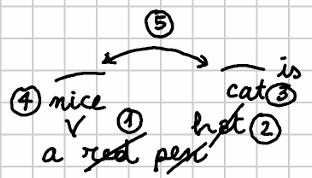
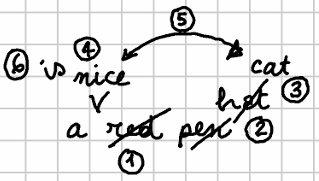
Images

diff --git a/export/export-tei.md b/export/export-tei.md
@@ -110,9 +110,11 @@ After this stage the pipeline has completed, and the result is any text-based ou
 
 ## Example 1
 
-Let us see a sample illustrating this process using a simple pipeline with a short mock autograph text, represented by Figure 1:
+Let us see a sample illustrating this process using a simple pipeline with a short mock autograph text, represented in Figure 1:
 
 ![a mock autograph](img/mock-autograph-pen.png)
+
+- _Figure 1 - A mock autograph_
 
 The base text (version `v0`), written on the regular lines of the notebook, is just three words:
 
@@ -141,7 +143,13 @@ These operations generate the following text versions:
 
 >As usual, note that these are just the outputs of each operation. Every operation alters the text along the path leading from one staged version to the next one; so many of the outputs are just intermediate steps along this path. This is clearly the case especially when the output does not make sense, like in `v5`. For instance, on the basis of external information here one might consider as staged versions just `v4` and `v6`. This is of course a matter of interpretation, within the constraints defined by the snapshot.
 
-So, this is the essential data of our snapshot: a base text, and the operations affecting it. We now want to export this into a specific form of TEI, namely the scheme adopted by the Saba 1919 digital edition (which can be displayed in EVT 3).
+Tagging the image with numbers should make our interpretation more evident (Figure 2):
+
+![tagged mock autograph](img/mock-autograph-pen-n.png)
+
+- _Figure 2 - Tagged mock autograph_
+
+So, this is the essential data of our snapshot: a base text, and the operations affecting it. We now want to export this into a specific form of TEI, namely the scheme adopted by the Saba 1919 digital edition (which can be displayed in [EVT](http://evt.labcd.unipi.it) 3).
 
 There, for a given multiple-versions text (an epigram, a page, etc.):
 
@@ -285,125 +293,12 @@ The following diagram summarizes the above dump (I applied the red color to the 
 
 >On passage, note that this defines a segment including only a space (between "cat" and "is"). This is the consequence of the design of the filter's behavior, because that space refers to a different operation and thus has different metadata. Yet, the power of the pipeline approach is right in concatenating small pieces of reusable logic. Should we want to merge this space into the previous segment, we could just concatenate another filter which deals with whitespace-only segments and merges them following some specific logic.
 
+### Example 1 - Stage 3
+
+Once we have our "multi" tree representing our staged versions, we can finally proceed to materialize this abstract structure into TEI markup.
+
+As the tree contains multiple branches, one per sub-tree, we are going to use a composite "Saba" tree renderer. This will wrap a "Saba" tree renderer which, like most filters, just deals with a linear tree.
+
+The root node of the tree structure will correspond to a single `app`.
+
 TODO
-
-## Procedure
-
-As an example, let us consider this mock autograph:
-
-![mock autograph](img/mock-autograph.png)
-
-The base text, written on the regular lines of the notebook, is:
-
-```txt
-         10        20        30        40        50
-123456789-123456789-123456789-123456789-123456789-123456789-1
-he had a red hat for sure,|and long moustache and grey beard.
-```
-
-Say that our interpretation defines the following operations starting from the base text, which is the one first written down on the regular notebook lines:
-
-1. insert "very " before "long": `32+["very " [*log="insert 'very ' before 'long'"]` (`v1`);
-2. replace "red" with "green": `10x3="green" [*log="replace 'red' with 'green'"]` (`v2`);
-3. delete "grey": `51x5- [*log="delete grey" *version^="A"]` (`v3`, staged as `A`);
-4. move "for sure," before "he": `18x9>[1@fs [*log="move 'for sure,' before 'he'"]` (`v4`);
-5. delete tail space: `17-@fs [*log="delete tail ' '"]` (`v5`);
-6. insert space before "he": `1+[" "@fs [*log="insert space before 'he'"]` (`v6`);
-7. swap moustache/beard: `37x9<>56x5 [*log="swap 'moustache' / 'beard'" *version^="B"]` (`v7`, staged as `B`).
-
-From base text we get this tree:
-
-1. root node;
-2. nodes for `he had a red hat for sure,|and long moustache and grey beard.`.
-
-We then run the operations:
-
-1. insert "very" before "long": `he had a red hat for sure,|and [very ]long moustache and grey beard.`.
-2. replace "red" with "green": `he had a [×red][green] hat for sure,|and [very ]long moustache and grey beard.`
-3. delete "grey": `he had a [×red][green] hat for sure,|and [very ]long moustache and [×grey] beard.`
-4. move "for sure," before "he": `[for sure,]he had a [×red][green] hat [×for sure,]|and [very ]long moustache and [×grey] beard.`
-5. delete tail space: `[for sure,]he had a [×red][green] hat[× ][×for sure,]|and [very ]long moustache and [×grey] beard.`
-6. insert space before "he": `[for sure,][ ]he had a [×red][green] hat[× ][×for sure,]|and [very ]long moustache and [×grey] beard.`
-7. swap moustache/beard: `[for sure,][ ]he had a [×red][green] hat[× ][×for sure,]|and [very ]long [×moustache][beard] and [×grey] [×beard][moustache].`
-
-To keep the example short, say that we are interested in exporting the final version only; anyway, whatever the number of versions the procedure is the same.
-
-The next step is segmenting the text, i.e. merging nodes to create the maximum-length spans of texts sharing the same set of annotations.
-
-## 2. Segmentation
-
-For segmentation we must define which injected features are relevant. This is up to the user, and depends on the markup we want to generate. Trace features instead are always relevant because they define the text which works as the basis for markup.
-
-First, we filter the tree so that we remove annotations on any whitespace nodes. This avoids redundant annotations, whence this tree (each character is a node, and we wrap annotated characters in `[...]` for `$ins` or `[×...]` for `$del`):
-
-```txt
-[for sure,] he had a [×red][green] hat [×for sure,]|and [very] long [×moustache][beard] and [×grey] [×beard][moustache].
-```
-
-The procedure is:
-
-- let node = root's child node;
-- do:
-  - let start = node;
-  - collect node's relevant features in a set;
-  - while node's child (if any) is whitespace, or has the same set, move to it by setting node=node's child (after moving, stop if the node was LF, to preserve line breaks at segment end);
-  - if node is not start, set start's text to the string resulting from appending the text of all the nodes from start to the last collected node, and remove all the collected nodes except start. This has the effect of merging all the collected nodes into one, with a longer text, which is the maximum span of text having the same relevant features;
-  - node = child (if any) of last collected node: if no more children, stop; else continue the loop.
-
->The whitespace condition is due to the filter we applied, which removed features from whitespace characters. Such characters are considered as neutral for features, so they always match, or we would risk to break a segment too early.
-
-So, for our example, we get these nodes (OPID are really GUID-like strings, but I am just reporting their ordinal number for simplicity):
-
-1. root;
-2. `for sure,`: `$ins` OPID 4;
-3. ` he had a `;
-4. `red`: `$del` OPID 2;
-5. `green`: `$ins` OPID 2;
-6. ` hat `
-7. `for sure,`: `$del` OPID 4;
-8. `and` + space
-9. `very`: `$ins` OPID 1;
-10. ` long `
-11. `moustache`: `$del` OPID 7;
-12. `beard`: `$ins` OPID 7;
-13. ` and `
-14. `grey`: `$del` OPID 3;
-15. `beard`: `$del` OPID 7;
-16. `moustache`: `$ins` OPID 7;
-17. `.`.
-
-Note that this procedure, as usual in our approach, leverages a _dynamic_ segmentation process, where we do not set any specific segmentation unit in advance. We just calculate the best unit for the most efficient and compact output during export.
-
-At the end of this segmentation process, our linear tree structure has not changed, but in most cases it now contains less nodes, because of merging. We can now proceed to materialize this structure into markup.
-
-### 3. Materialization
-
-This materializes the tree into markup:
-
-- at the root node add `app` with child `lem` (in our case the final version is the "preferred" one) with child `mod`, with all the metadata you might want to encode;
-- let node = root's child node;
-- pop all the stack elements corresponding to OPID which are no longer present in node's features;
-- if required, push a block element (e.g. `l`, `p`...) as child of `app`;
-- do:
-  - examine node's features:
-    - `$ins`: push an `ins` element with its attributes;
-    - `$del`: if next segment has a `$ins` with the same OPID, push a `subst`; then, push a `del` element with its attributes;
-  - if node's text ends with LF and we are using a block, pop the whole stack and the block element if required; then, push the popped stack back recreating all the elements which were in it before closing the block;
-  - node = node's child, stop if no child.
-
-So for our example (I am just writing the essential markup here, without detailed metadata or custom renditions; also, I assume `l` as block element):
-
-```xml
-<app>
-  <!-- previous versions would go here when we want them... -->
-  <lem>
-    <mod>
-      <ins>for sure,</ins> he had a <subst><del>red</del><ins>green</ins></subst> hat <del>for sure,</del>and <ins>very</ins> long <subst><del>moustache</del><ins>beard</ins></subst> and <del>grey</del><subst><del>beard</del><ins>moustache</ins></subst>.
-    </mod>
-  </lem>
-</app>
-```
-
-If we just represent the text with strikethrough for deletions and bold for insertions we get this:
-
-**for sure**, he had a ~~red~~**green** hat ~~for sure,~~and **very** long ~~moustache~~**beard** and ~~grey~~~~beard~~**moustache**.

diff --git a/export/temp.md b/export/temp.md
@@ -1,0 +1,120 @@
+## Procedure
+
+As an example, let us consider this mock autograph:
+
+![mock autograph](img/mock-autograph.png)
+
+The base text, written on the regular lines of the notebook, is:
+
+```txt
+         10        20        30        40        50
+123456789-123456789-123456789-123456789-123456789-123456789-1
+he had a red hat for sure,|and long moustache and grey beard.
+```
+
+Say that our interpretation defines the following operations starting from the base text, which is the one first written down on the regular notebook lines:
+
+1. insert "very " before "long": `32+["very " [*log="insert 'very ' before 'long'"]` (`v1`);
+2. replace "red" with "green": `10x3="green" [*log="replace 'red' with 'green'"]` (`v2`);
+3. delete "grey": `51x5- [*log="delete grey" *version^="A"]` (`v3`, staged as `A`);
+4. move "for sure," before "he": `18x9>[1@fs [*log="move 'for sure,' before 'he'"]` (`v4`);
+5. delete tail space: `17-@fs [*log="delete tail ' '"]` (`v5`);
+6. insert space before "he": `1+[" "@fs [*log="insert space before 'he'"]` (`v6`);
+7. swap moustache/beard: `37x9<>56x5 [*log="swap 'moustache' / 'beard'" *version^="B"]` (`v7`, staged as `B`).
+
+From base text we get this tree:
+
+1. root node;
+2. nodes for `he had a red hat for sure,|and long moustache and grey beard.`.
+
+We then run the operations:
+
+1. insert "very" before "long": `he had a red hat for sure,|and [very ]long moustache and grey beard.`.
+2. replace "red" with "green": `he had a [×red][green] hat for sure,|and [very ]long moustache and grey beard.`
+3. delete "grey": `he had a [×red][green] hat for sure,|and [very ]long moustache and [×grey] beard.`
+4. move "for sure," before "he": `[for sure,]he had a [×red][green] hat [×for sure,]|and [very ]long moustache and [×grey] beard.`
+5. delete tail space: `[for sure,]he had a [×red][green] hat[× ][×for sure,]|and [very ]long moustache and [×grey] beard.`
+6. insert space before "he": `[for sure,][ ]he had a [×red][green] hat[× ][×for sure,]|and [very ]long moustache and [×grey] beard.`
+7. swap moustache/beard: `[for sure,][ ]he had a [×red][green] hat[× ][×for sure,]|and [very ]long [×moustache][beard] and [×grey] [×beard][moustache].`
+
+To keep the example short, say that we are interested in exporting the final version only; anyway, whatever the number of versions the procedure is the same.
+
+The next step is segmenting the text, i.e. merging nodes to create the maximum-length spans of texts sharing the same set of annotations.
+
+## 2. Segmentation
+
+For segmentation we must define which injected features are relevant. This is up to the user, and depends on the markup we want to generate. Trace features instead are always relevant because they define the text which works as the basis for markup.
+
+First, we filter the tree so that we remove annotations on any whitespace nodes. This avoids redundant annotations, whence this tree (each character is a node, and we wrap annotated characters in `[...]` for `$ins` or `[×...]` for `$del`):
+
+```txt
+[for sure,] he had a [×red][green] hat [×for sure,]|and [very] long [×moustache][beard] and [×grey] [×beard][moustache].
+```
+
+The procedure is:
+
+- let node = root's child node;
+- do:
+  - let start = node;
+  - collect node's relevant features in a set;
+  - while node's child (if any) is whitespace, or has the same set, move to it by setting node=node's child (after moving, stop if the node was LF, to preserve line breaks at segment end);
+  - if node is not start, set start's text to the string resulting from appending the text of all the nodes from start to the last collected node, and remove all the collected nodes except start. This has the effect of merging all the collected nodes into one, with a longer text, which is the maximum span of text having the same relevant features;
+  - node = child (if any) of last collected node: if no more children, stop; else continue the loop.
+
+>The whitespace condition is due to the filter we applied, which removed features from whitespace characters. Such characters are considered as neutral for features, so they always match, or we would risk to break a segment too early.
+
+So, for our example, we get these nodes (OPID are really GUID-like strings, but I am just reporting their ordinal number for simplicity):
+
+1. root;
+2. `for sure,`: `$ins` OPID 4;
+3. ` he had a `;
+4. `red`: `$del` OPID 2;
+5. `green`: `$ins` OPID 2;
+6. ` hat `
+7. `for sure,`: `$del` OPID 4;
+8. `and` + space
+9. `very`: `$ins` OPID 1;
+10. ` long `
+11. `moustache`: `$del` OPID 7;
+12. `beard`: `$ins` OPID 7;
+13. ` and `
+14. `grey`: `$del` OPID 3;
+15. `beard`: `$del` OPID 7;
+16. `moustache`: `$ins` OPID 7;
+17. `.`.
+
+Note that this procedure, as usual in our approach, leverages a _dynamic_ segmentation process, where we do not set any specific segmentation unit in advance. We just calculate the best unit for the most efficient and compact output during export.
+
+At the end of this segmentation process, our linear tree structure has not changed, but in most cases it now contains less nodes, because of merging. We can now proceed to materialize this structure into markup.
+
+### 3. Materialization
+
+This materializes the tree into markup:
+
+- at the root node add `app` with child `lem` (in our case the final version is the "preferred" one) with child `mod`, with all the metadata you might want to encode;
+- let node = root's child node;
+- pop all the stack elements corresponding to OPID which are no longer present in node's features;
+- if required, push a block element (e.g. `l`, `p`...) as child of `app`;
+- do:
+  - examine node's features:
+    - `$ins`: push an `ins` element with its attributes;
+    - `$del`: if next segment has a `$ins` with the same OPID, push a `subst`; then, push a `del` element with its attributes;
+  - if node's text ends with LF and we are using a block, pop the whole stack and the block element if required; then, push the popped stack back recreating all the elements which were in it before closing the block;
+  - node = node's child, stop if no child.
+
+So for our example (I am just writing the essential markup here, without detailed metadata or custom renditions; also, I assume `l` as block element):
+
+```xml
+<app>
+  <!-- previous versions would go here when we want them... -->
+  <lem>
+    <mod>
+      <ins>for sure,</ins> he had a <subst><del>red</del><ins>green</ins></subst> hat <del>for sure,</del>and <ins>very</ins> long <subst><del>moustache</del><ins>beard</ins></subst> and <del>grey</del><subst><del>beard</del><ins>moustache</ins></subst>.
+    </mod>
+  </lem>
+</app>
+```
+
+If we just represent the text with strikethrough for deletions and bold for insertions we get this:
+
+**for sure**, he had a ~~red~~**green** hat ~~for sure,~~and **very** long ~~moustache~~**beard** and ~~grey~~~~beard~~**moustache**.
